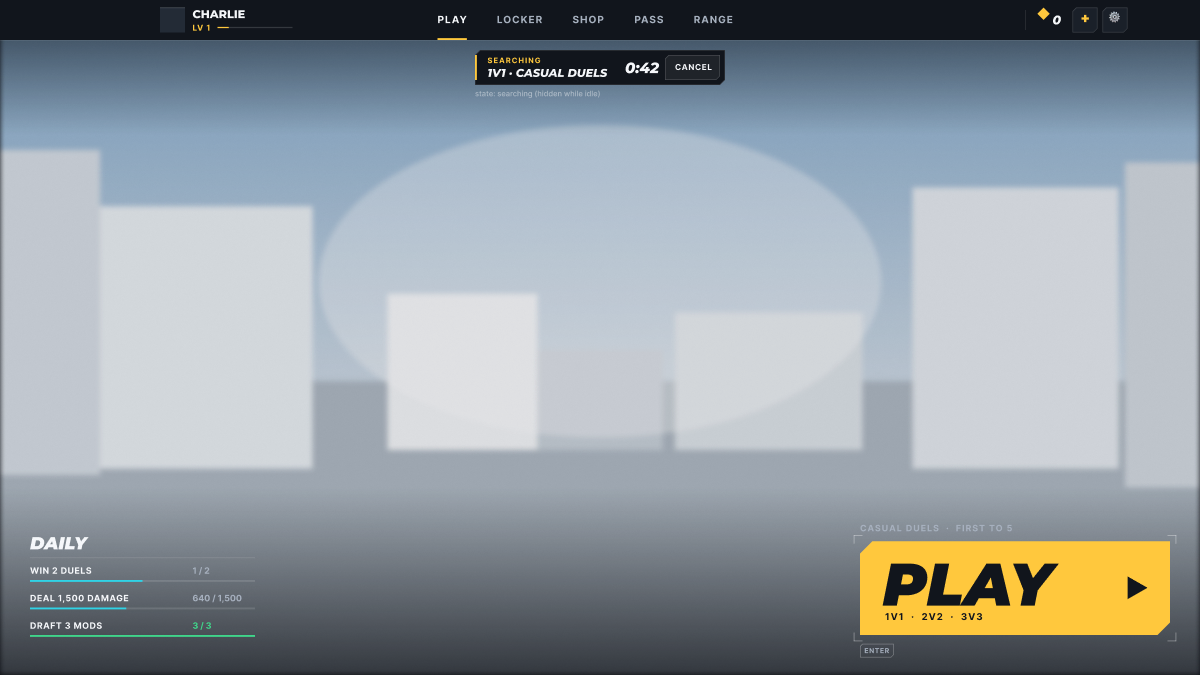
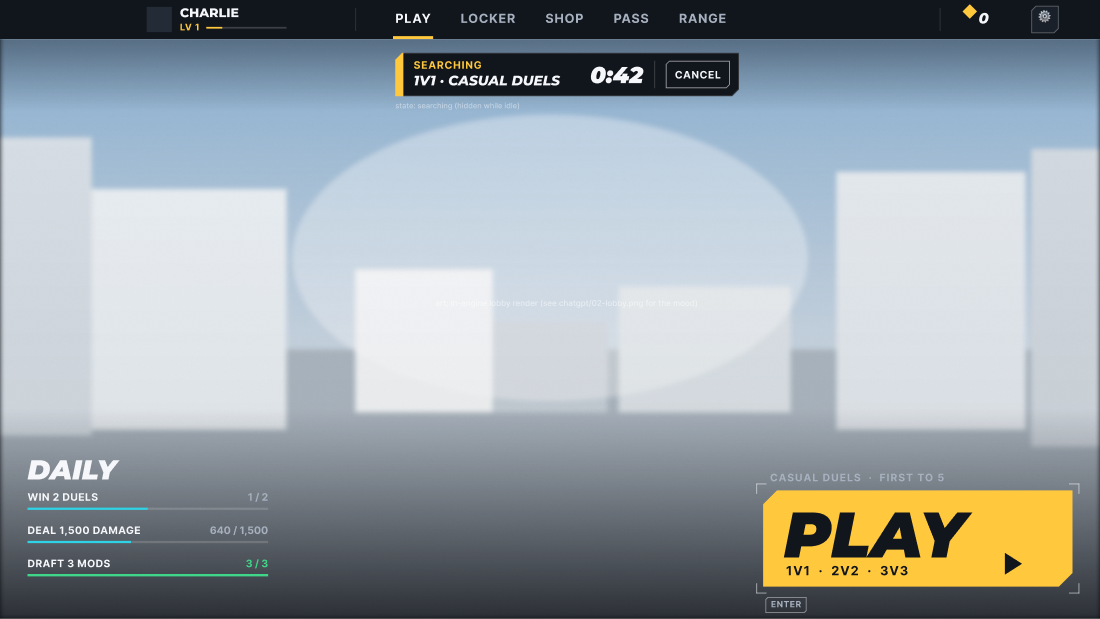
UI concept review board: ChatGPT images vs Figma frames, recommendation 'Clipped steel' at the images' scale; token changes (type up ~1.2x, panel strokes 1.5, select 3, team edges 4, panels 0.94); Figma frames rebuilt to match, phone text floor 12

diff --git a/vault/01 Design/Lobby UI and Queue.md b/vault/01 Design/Lobby UI and Queue.md
@@ -410,10 +410,12 @@ The shape language is **the match HUD's v1 cut corner** (the look the user chose
   - the MATCH FOUND pulse is kept.
 
 **Figma frames** (file `UbCKQXuZijn0Gpryt0uUxN`, Screens page), with renders in `assets/UI/concepts/figma-v3-clipped-*.png`:
-- [Lobby 1920x1080](https://www.figma.com/design/UbCKQXuZijn0Gpryt0uUxN?node-id=25-696): the top bar with text tabs, the searching bar (state), DAILY at the bottom left, PLAY at the bottom right.
-- [PLAY menu 1920x1080](https://www.figma.com/design/UbCKQXuZijn0Gpryt0uUxN?node-id=26-706): a left-aligned title, sharp mode cards with the gold selected frame and ticks, FIND MATCH, key hints.
-- [Match HUD 1920x1080](https://www.figma.com/design/UbCKQXuZijn0Gpryt0uUxN?node-id=27-716): the clipped score plates under Roblox's bar, the kill feed, the one-word round banner in the popup lane, health with segments, Q/E/T slots with a cooldown, ammo.
-- [Draft 1920x1080](https://www.figma.com/design/UbCKQXuZijn0Gpryt0uUxN?node-id=28-726): gun row, Q/E/T ability cards with key tabs and role rules, timer, LOCK IN.
+- [Lobby 1920x1080](https://www.figma.com/design/UbCKQXuZijn0Gpryt0uUxN?node-id=31-756): the top bar with text tabs, the searching bar (state), DAILY at the bottom left, PLAY at the bottom right.
+- [PLAY menu 1920x1080](https://www.figma.com/design/UbCKQXuZijn0Gpryt0uUxN?node-id=32-756): a left-aligned title with the searching bar beside it, sharp mode cards with the gold selected frame and ticks, FIND MATCH, key hints.
+- [Match HUD 1920x1080](https://www.figma.com/design/UbCKQXuZijn0Gpryt0uUxN?node-id=34-756): the clipped score plates under Roblox's bar, the kill feed with weapon icons, the one-word round banner in the popup lane, health with segments, Q/E/T slots with a cooldown, ammo with the gun icon and a divider.
+- [Draft 1920x1080](https://www.figma.com/design/UbCKQXuZijn0Gpryt0uUxN?node-id=35-756): gun row, Q/E/T ability cards with key tabs and role rules, two-line descriptions, timer, LOCK IN.
+
+(These links are to the frames as updated after the review board below. The first versions were replaced in place.)
 - [Phone HUD 667x375](https://www.figma.com/design/UbCKQXuZijn0Gpryt0uUxN?node-id=29-736) and [Phone Lobby 667x375](https://www.figma.com/design/UbCKQXuZijn0Gpryt0uUxN?node-id=29-794):
   - Roblox's top bar, thumbstick and jump zones are drawn as `skip_` layers, and nothing interactive sits in them. Ammo and the Lobby's PLAY were moved out of them on the first check.
   - Touch buttons are 48-64 px clipped squares, not circles.
@@ -427,15 +429,62 @@ The shape language is **the match HUD's v1 cut corner** (the look the user chose
   - ally `2FD3E6`, enemy `FF5A4E`, success `3FD68A`;
   - line `3A4350`, line-strong `6B7482`.
 - **Shape:** cut-sm 8, cut-md 12, cut-lg 20; radius-none 0, radius-xs 2.
-- **Stroke:** hair 1, select 2, accent 3.
+- **Stroke:** hair 1, panel 1.5, select 3, accent 4.
 - **Space:** 4, 8, 12, 16, 24, 32, plus edge 48.
-- **Type:** display-xl 96, display-l 64, display-m 40, number-hud 56, title 24, label 15, body 17, small 13.
-- **Size:** tap-min 52, topbar 64.
-- **Alpha:** panel 0.9, scrim 0.6.
+- **Type:** display-xl 96, display-l 64, display-m 40, number-hud 64, card-name 48, title 26, tab 22, body 20, label 18, small 15.
+- **Size:** tap-min 52, topbar 64, ability-slot 84, feed-row 44.
+- **Alpha:** panel 0.94, scrim 0.6.
+
+(Values after the review board below; the table there shows what changed.)
 
 In Roblox this would replace `Config/UiStyle`'s RADIUS / SHADOW / GLOW groups with a `CUT` group. The cut shapes need a 9-slice set (the match already has `cutFill` / `cutLine` at 32 px cuts). That's a build decision for after the user picks.
 
-**ChatGPT concept images: blocked on sign-in.** chatgpt.com is open in lane E's built-in browser. Signed out, it accepted the first prompt (three directions side by side), then answered "Image creation is only available when you're logged in". Prompts 1-4 are ready in `assets/UI/concepts/prompts.md`, with a shared style block and the do-nots. Once the user signs in there (the pane opens with Ctrl+Shift+B in the `lobby-ui-2` session), lane E runs them: the options round first, then one image per screen. The best images get saved in `assets/UI/concepts/`.
+**ChatGPT concept images:** lane E's signed-out try was refused. Codex then made them from prompts 1-4 (`assets/UI/concepts/prompts.md`). They're committed in `assets/UI/concepts/chatgpt/`. The user's verdict: "look pretty good". They're references to raise quality, not to copy one-to-one.
+
+### Review board: ChatGPT images vs the Figma frames (2026-11-05, evening)
+| Image | Better than the first Figma frames | Where the Figma frames are better |
+|---|---|---|
+| ![](../../assets/UI/concepts/chatgpt/01-three-directions.png) `01-three-directions` | Shows A, B and C on one real scene. The differences are small: B slants everything and C only drops the DAILY panel. That's a sign that **the scale and spacing matter more than the corner treatment**. | — (an options board) |
+| ![](../../assets/UI/concepts/chatgpt/02-lobby.png) `02-lobby` | **Everything is about 1.3x bigger**: tabs about 22 px, the name about 22, the queue bar about 600 x 76 with a divider before CANCEL, PLAY about 540 x 168. The bright in-engine scene makes the dark UI pop. DAILY sits on the scene with no panel. The avatar sits left of centre, leaving room for PLAY. | Frame-accurate safe zones (Roblox's top-bar strip). Bound tokens. A real ENTER key hint. |
+| ![](../../assets/UI/concepts/chatgpt/03-play-queue.png) `03-play-queue` | The **searching bar moves beside the title** (top right) while the menu is open. **Shorter copy** ("Pure aim duel.") and no "BOTS FILL" line. Real face-off art fills each card's top half. Bigger key hints and a bigger close button. | The selected card's key number stays visible; exact spacing; it isn't art-dependent. |
+| ![](../../assets/UI/concepts/chatgpt/04-match-hud.png) `04-match-hud` | **Weapon silhouettes in the kill feed.** A gun icon plus a divider in the ammo plate. Thicker team edges (about 5 px), bigger pips. Solid ability icons in bigger slots. Health segments thicker. The banner is bigger, with ticks around it. | The Roblox top-bar strip and chat zone are reserved; it shows the cooldown sweep; the numbers are exact. |
+| ![](../../assets/UI/concepts/chatgpt/05-draft.png) `05-draft` | **Two-line descriptions** split by fact. Ability art shows the effect in our arena (the beacon, the fire patch, the purple wall). Bigger gun pictures. | **Keeps the key hints** (1 2 3 / Q E T / HOLD / ENTER) and the selected-gun summary under LOCK IN. The real descriptions stay intact; the image paraphrased STIM's. |
+
+**What the images get wrong (don't copy):**
+- A UI over a bright, sharp render is the best case. The real lobby and arena are busier, so keep the 0.94 panel alpha and the bottom scrim.
+- The copy was invented (STIM's text); the copy stays from `Config/Mods`.
+- 01's "RECOMMENDED" label is the prompt's own words, not a design element.
+
+### Recommendation: "Clipped steel" at the images' scale
+Keep A, the clipped-corner language that matches the v1 HUD the user kept. **Take the scale, weight and details from the images.** The Figma frames above are now updated to this, so the user compares finished frames.
+
+Token changes (Figma collection "UI v3 Clipped (concept)", already applied):
+
+| Token | Was | Now | Why |
+|---|---|---|---|
+| `type/tab` (new) | 16 | 22 | top-bar tabs read at 0.35x phone scale too |
+| `type/label` | 15 | 18 | labels, key hints, DAILY rows |
+| `type/body` | 17 | 20 | card copy (draft cards use 22) |
+| `type/small` | 13 | 15 | 12 px drawn floor at phone scale |
+| `type/title` | 24 | 26 | — |
+| `type/number-hud` | 56 | 64 | health 72 / ammo 80 in the frames |
+| `type/card-name` (new) | 40 | 48 | ability names |
+| `stroke/panel` (new) | 1 | 1.5 | panel outlines; hairline rules stay 1 |
+| `stroke/select` | 2 | 3 | selected card / gun frame |
+| `stroke/accent` | 3 | 4 | team edges on the score plates (5 in the frame) |
+| `alpha/panel` | 0.90 | 0.94 | plates over a busy world |
+| `size/ability-slot` (new) | 72 | 84 | Q/E/T slots |
+| `size/feed-row` (new) | 36 | 44 | kill-feed rows with a weapon icon |
+
+Layout rules added:
+- the queue bar sits beside the title while the PLAY menu is open;
+- mode and ability copy is **at most 2 short lines**, split by fact;
+- the kill feed and ammo use **weapon silhouettes**. That needs one white icon per gun, an asset task;
+- the mode-card and ability-card art should be **in-engine renders of our maps**, not illustrations. The images show the target framing.
+
+Phone frames: the labels that had slipped under the 12 px floor (10-11 px) are raised to 12.
+
+**Not changed by the images:** colours (they used our hex values), the cut sizes (8/12/20, with 24 on the biggest blocks) and the layout zones.
 
 ### For the user to decide
 1. **Is "Clipped steel" the direction**, the v1 cut corner across the whole game with v2's fonts? The other two from the prompt are B "Slant" (parallelograms, heavy italic) and C "Hairline pro" (almost no panels). The ChatGPT options image will show all three once signed in.
